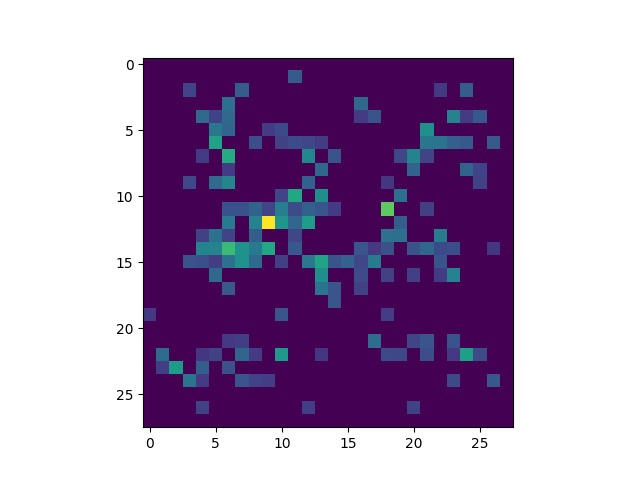
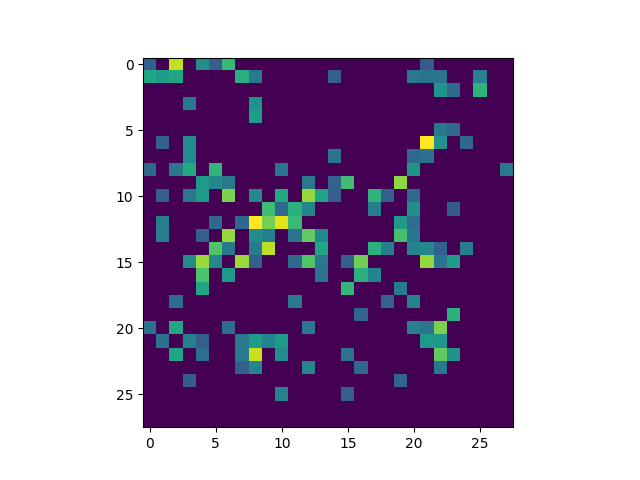
Updated images for 10000-image-trained model using tf.gradients

diff --git a/test.py b/test.py
@@ -468,7 +468,7 @@ def tf_testing_2():
     
         #saver.save(sess, 'tf_models/mnist_no_dropout')
         #saver.save(sess, 'tf_models/mnist')
-        saver.save(sess, 'tf_models/gradients_testing_2')
+        saver.save(sess, 'tf_models/gradients_testing_20000')
         np.set_printoptions(threshold=np.nan)
         f = open("./example_10.txt", 'r')
         lines = f.readlines()
@@ -480,12 +480,17 @@ def tf_testing_2():
             data = np.ndarray.flatten(im_data)
             feed_dict = {x:[data], keep_prob: 1.0}
             #result = h_conv1.eval(feed_dict)
-            result = gradients.eval(feed_dict)
-            result = get_top_pixels(result, 0.2)
-            result = result.reshape(28, 28)
+            base_result = gradients.eval(feed_dict)
+            result1 = get_top_pixels(base_result, 0.2)
+            result1 = result1.reshape(28, 28)
             plt.figure()
-            plt.imshow(result)
+            plt.imshow(result1)
             plt.savefig('./result_images/gradient_test_%d'%i)
+            result2 = get_top_pixels(np.multiply(base_result, data), 0.2)
+            result2 = result2.reshape(28, 28)
+            plt.figure()
+            plt.imshow(result2)
+            plt.savefig('./result_images/gradient_test_mult_input_%d'%i)
         #plt.show()
         #print result.shape
         #print "Gradients:"
